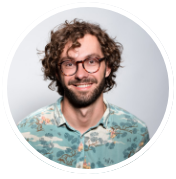
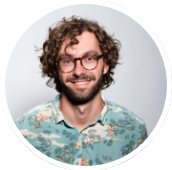
Quick fixes

diff --git a/frontend/src/components/common/Footer/Footer.tsx b/frontend/src/components/common/Footer/Footer.tsx
@@ -1,14 +1,14 @@
 import { Link } from 'react-router-dom';
+import { faFacebook, faTwitter, faYoutube } from '@fortawesome/free-brands-svg-icons';
+import { FontAwesomeIcon } from '@fortawesome/react-fontawesome';
 
 import logo from '../../../images/logo.png'
 import Button from '../Button/Button';
-import { faFacebook, faTwitter, faYoutube } from '@fortawesome/free-brands-svg-icons';
-import { FontAwesomeIcon } from '@fortawesome/react-fontawesome';
 
 function Footer() {
   return (
     <footer className="bg-[#F9F9FB] text-[#1A1A1A] px-6 py-10 font-montserrat">
-      <div className="max-w-7xl mx-auto grid grid-cols-1 md:grid-cols-5 gap-8">
+      <div className="max-w-7xl mx-auto grid grid-cols-1 md:grid-cols-6 gap-8">
 
         <div className="col-span-1">
           <div className="flex items-center space-x-2">
@@ -20,10 +20,10 @@ function Footer() {
           <h4 className="font-semibold mb-2 text-left text-2xl">Product</h4>
           <ul className="space-y-2 text-sm text-left text-base">
             <li>
-              <Link to="/features" className="text-gray-500 font-bold">Features</Link>
+              <Link to="/features" className="text-gray-500 font-medium">Features</Link>
             </li>
             <li>
-              <Link to="/pricing" className="text-gray-500 font-bold">Pricing</Link>
+              <Link to="/pricing" className="text-gray-500 font-medium">Pricing</Link>
             </li>
           </ul>
         </div>
@@ -32,13 +32,13 @@ function Footer() {
           <h4 className="font-semibold mb-2 text-left text-2xl">Resources</h4>
           <ul className="space-y-2 text-sm text-left text-base">
             <li>
-              <Link to="/blog" className="text-gray-500 font-bold">Blog</Link>
+              <Link to="/blog" className="text-gray-500 font-medium">Blog</Link>
             </li>
             <li>
-              <Link to="/user-guides" className="text-gray-500 font-bold">User guides</Link>
+              <Link to="/user-guides" className="text-gray-500 font-medium">User guides</Link>
             </li>
             <li>
-              <Link to="/webinars" className="text-gray-500 font-bold">Webinars</Link>
+              <Link to="/webinars" className="text-gray-500 font-medium">Webinars</Link>
             </li>
           </ul>
         </div>
@@ -47,15 +47,15 @@ function Footer() {
           <h4 className="font-semibold mb-2 text-left text-2xl">Company</h4>
           <ul className="space-y-2 text-sm text-left text-base">
             <li>
-              <Link to="/about" className="text-gray-500 font-bold">About Us</Link>
+              <Link to="/about" className="text-gray-500 font-medium">About Us</Link>
             </li>
             <li>
-              <Link to="/contact" className="text-gray-500 font-bold">Contact Us</Link>
+              <Link to="/contact" className="text-gray-500 font-medium">Contact Us</Link>
             </li>
           </ul>
         </div>
 
-        <div className="text-left">
+        <div className="col-span-1 md:col-span-2 text-left">
           <h4 className="font-semibold text-[#6D5BD0] mb-2">Subscribe to our newsletter</h4>
           <p className="text-sm mb-3">For product announcements and exclusive insights</p>
           <div className="flex border rounded overflow-hidden">
@@ -64,7 +64,7 @@ function Footer() {
               placeholder="Input your email"
               className="px-3 py-2 text-sm w-full focus:outline-none"
             />
-            <Button variant='primary'>
+            <Button variant="primary">
               Subscribe
             </Button>
           </div>

diff --git a/frontend/src/components/auth/LoginForm/LoginForm.tsx b/frontend/src/components/auth/LoginForm/LoginForm.tsx
@@ -10,7 +10,7 @@ import Input from '../../common/Input/Input';
 import Button from '../../common/Button/Button';
 
 type LoginFormInputs = {
-  email: string;
+  username: string;
   password: string;
 };
 
@@ -49,7 +49,7 @@ function LoginForm() {
         navigate('/');
       }
     } catch (err) {
-      setAuthError('Wrong email or password');
+      setAuthError('Wrong username or password');
       console.error('Login failed:', err);
     } finally {
       setLoading(false);
@@ -64,23 +64,23 @@ function LoginForm() {
   return (
     <div className="relative flex flex-col items-center justify-center min-h-[70vh] px-4 font-montserrat my-10">
       <div className={loading ? 'blur-sm pointer-events-none' : ''}>
-        <h2 className="text-2xl font-bold mb-1">Sign In</h2>
-        <p className="text-gray-500 mb-6">Welcome back</p>
+        <h2 className="text-2xl font-bold mb-1 text-center">Sign In</h2>
+        <p className="text-gray-500 mb-3 text-center">Welcome back</p>
 
         <form className="w-full max-w-xs" onSubmit={handleSubmit(onSubmit)}>
-          <label className="block text-sm mb-1 font-bold text-gray-700">Email</label>
-          <div className={`flex items-center border rounded-md mb-3 px-3 py-3 ${errors.email ? 'border-red-500 bg-red-50' : 'bg-gray-100'}`}>
-            <span className={`mr-2 ${errors.email ? 'text-red-500' : 'text-gray-500'}`}>
+          <label className="block text-sm mb-1 font-bold text-gray-700">Username</label>
+          <div className={`flex items-center border rounded-md mb-3 px-3 py-3 ${errors.username ? 'border-red-500 bg-red-50' : 'bg-gray-100'}`}>
+            <span className={`mr-2 ${errors.username ? 'text-red-500' : 'text-gray-500'}`}>
               <FontAwesomeIcon icon={faUserTie} />
             </span>
             <Input
               type="text"
-              placeholder="Enter email"
-              {...register('email', { required: true })}
+              placeholder="Enter username"
+              {...register('username', { required: true })}
               disabled={loading}
             />
           </div>
-          {errors.email && <p className="text-red-500 text-sm mb-3">Email is required</p>}
+          {errors.username && <p className="text-red-500 text-sm mb-3">Username is required</p>}
 
           <label className="block text-sm mb-1 font-bold text-gray-700">Password</label>
           <div className={`flex items-center border rounded-md mb-5 px-3 py-1 ${errors.password ? 'border-red-500 bg-red-50' : 'bg-gray-100'}`}>

diff --git a/frontend/src/pages/About/About.tsx b/frontend/src/pages/About/About.tsx
@@ -37,7 +37,7 @@ function About() {
               <div className="flex flex-col md:flex-row gap-8 md:w-2/3">
 
                 <div className="bg-gray-50 rounded-lg text-center p-6">
-                  <img src={john} alt="John Doe" className="mx-auto rounded-full border-4 border-white shadow-sm mb-4" />
+                  <img src={john} alt="John Doe" className="mx-auto rounded-full border-4 border-white shadow-sm mb-7" />
                   <h3 className="text-xl font-bold text-gray-900">John Doe</h3>
                   <p className="text-sm text-indigo-600">Professional title</p>
                   <p className="text-sm text-gray-500 mt-2">
@@ -46,7 +46,7 @@ function About() {
                 </div>
 
                 <div className="bg-gray-50 rounded-lg text-center p-6">
-                  <img src={sara} alt="Sara Rose" className="mx-auto rounded-full border-4 border-white shadow-sm mb-4" />
+                  <img src={sara} alt="Sara Rose" className="mx-auto rounded-full border-4 border-white shadow-sm mb-7" />
                   <h3 className="text-xl font-bold text-gray-900">Sara Rose</h3>
                   <p className="text-sm text-indigo-600">Professional title</p>
                   <p className="text-sm text-gray-500 mt-2">
@@ -55,7 +55,7 @@ function About() {
                 </div>
 
                 <div className="bg-gray-50 rounded-lg text-center p-6">
-                  <img src={jack} alt="Jack Black" className="mx-auto rounded-full border-4 border-white shadow-sm mb-4" />
+                  <img src={jack} alt="Jack Black" className="mx-auto rounded-full border-4 border-white shadow-sm mb-5" />
                   <h3 className="text-xl font-bold text-gray-900">Jack Black</h3>
                   <p className="text-sm text-indigo-600">Professional title</p>
                   <p className="text-sm text-gray-500 mt-2">

diff --git a/frontend/src/pages/Register/Register.tsx b/frontend/src/pages/Register/Register.tsx
@@ -19,8 +19,8 @@ function Register() {
 
         <div className="space-y-10 max-w-6xl mx-auto">
           <div className="flex flex-col md:flex-row items-center bg-gray-50 rounded-lg p-6 shadow-md">
-            <div className="md:w-1/2 mb-4 md:mb-0">
-              <h2 className="text-2xl font-bold mb-2">Register as Trainer</h2>
+            <div className="md:w-1/2 mb-4 md:mb-0 px-12 py-12">
+              <h2 className="text-3xl font-bold mb-2">Register as Trainer</h2>
               <p className="text-gray-600 mb-4">
                 Do consectetur proident proident id eiusmod deserunt consequat pariatur ad ex velit do Lorem reprehenderit.
               </p>
@@ -32,8 +32,8 @@ function Register() {
           </div>
 
           <div className="flex flex-col md:flex-row items-center bg-gray-50 rounded-lg p-6 shadow-md">
-            <div className="md:w-1/2 mb-4 md:mb-0">
-              <h2 className="text-2xl font-bold mb-2">Register as Student</h2>
+            <div className="md:w-1/2 mb-4 md:mb-0 px-12 py-12">
+              <h2 className="text-3xl font-bold mb-2">Register as Student</h2>
               <p className="text-gray-600 mb-4">
                 Do consectetur proident proident id eiusmod deserunt consequat pariatur ad ex velit do Lorem reprehenderit.
               </p>

diff --git a/frontend/src/components/common/Navigation/Navigation.tsx b/frontend/src/components/common/Navigation/Navigation.tsx
@@ -9,19 +9,19 @@ function Navigation({ currentPath }: NavigationProps) {
     <nav className="flex space-x-6">
       <Link
         to="/blog"
-        className={`font-bold ${currentPath === "/blog" ? "text-purple-600" : "text-gray-500 hover:text-purple-600"}`}
+        className={`font-medium ${currentPath === "/blog" ? "text-purple-600" : "text-gray-500 hover:text-purple-600"}`}
       >
         Blog
       </Link>
       <Link
         to="/pricing"
-        className={`font-bold ${currentPath === "/pricing" ? "text-purple-600" : "text-gray-500 hover:text-purple-600"}`}
+        className={`font-medium ${currentPath === "/pricing" ? "text-purple-600" : "text-gray-500 hover:text-purple-600"}`}
       >
         Pricing
       </Link>
       <Link
         to="/about"
-        className={`font-bold ${currentPath === "/about" ? "text-purple-600" : "text-gray-500 hover:text-purple-600"}`}
+        className={`font-medium ${currentPath === "/about" ? "text-purple-600" : "text-gray-500 hover:text-purple-600"}`}
       >
         About Us
       </Link>

diff --git a/frontend/src/pages/Register-trainer/RegisterTrainer.tsx b/frontend/src/pages/Register-trainer/RegisterTrainer.tsx
@@ -127,7 +127,7 @@ function RegisterTrainer() {
               </label>
               <select
                 {...register("specialization", { required: true })}
-                className={`mt-1 block w-full border rounded-md p-2 ${errors.specialization ? 'border-red-500' : 'border-gray-300'}`}
+                className={`bg-white mt-1 block w-full border rounded-md p-2 ${errors.specialization ? 'border-red-500' : 'border-gray-300'}`}
                 disabled={loading}
               >
                 <option value="">Please select</option>
